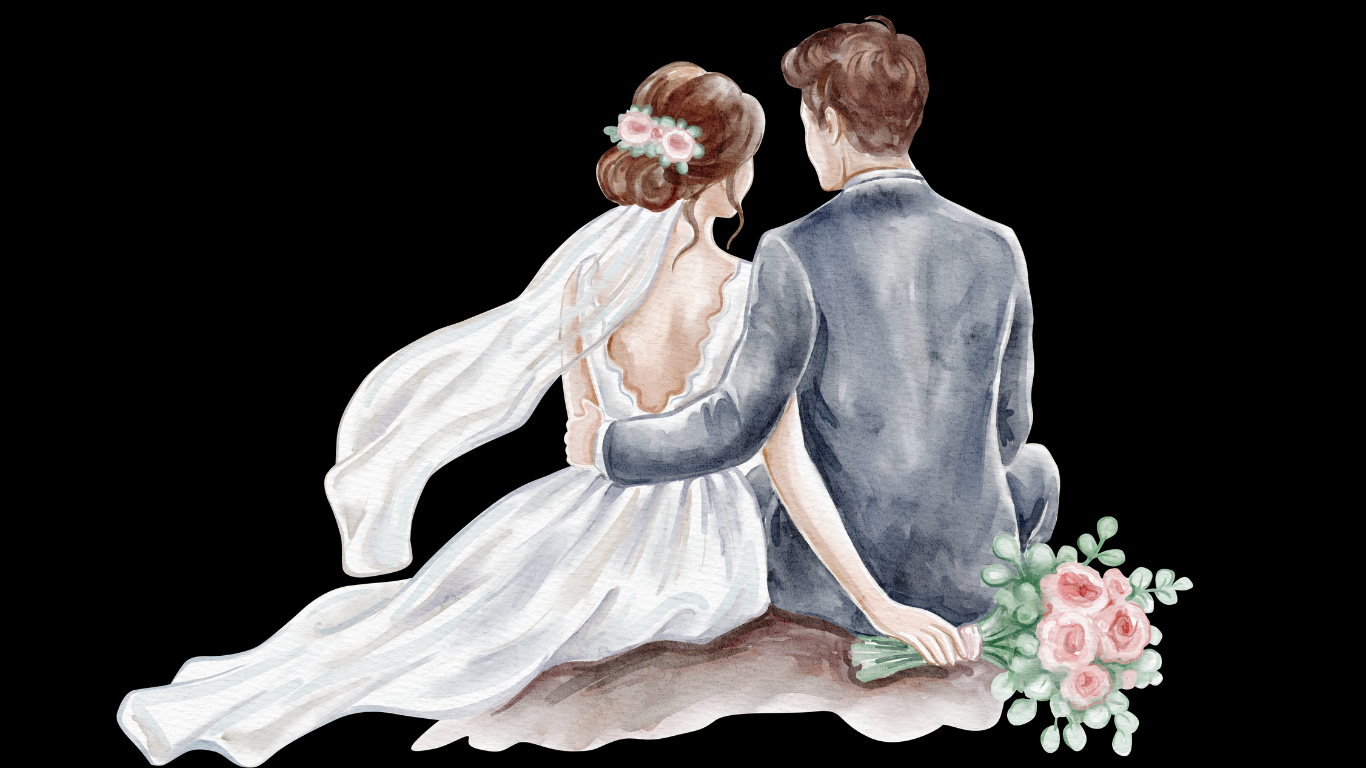
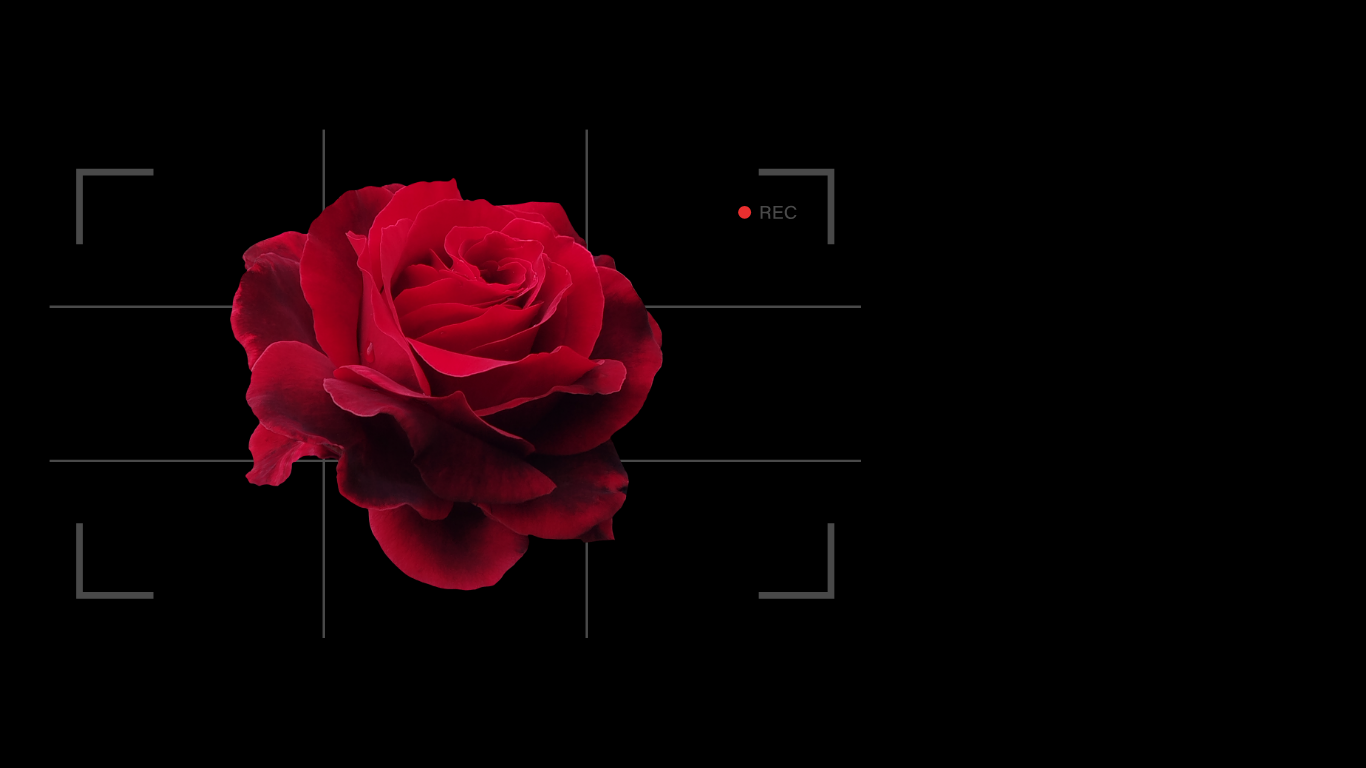
Fix hero text clipping and restore distinct rose/bot images
- Rewrite hero as a robust two-column grid (copy + rose) so the headline
  and body text can never be overlapped or clipped by the rose image;
  fluid clamp() title sizing prevents overflow on any width
- Restore distinct public images (rose-hero from the rose source, chat-rings
  from the rings source) after an upload left both filenames identical

diff --git a/components/sections/Hero.tsx b/components/sections/Hero.tsx
@@ -5,13 +5,7 @@ import { motion } from "framer-motion";
 import { useLang } from "@/lib/i18n";
 
 export function Hero({ go }: { go: (i: number) => void }) {
-  const { t, lang } = useLang();
-  const isAr = lang === "ar";
-
-  // Fade the rose into the black on whichever side the text sits.
-  const mask = isAr
-    ? "linear-gradient(270deg, #000 35%, transparent 90%)"
-    : "linear-gradient(90deg, #000 35%, transparent 90%)";
+  const { t } = useLang();
 
   return (
     <section className="snap-panel viewfinder wash-rose flex items-center overflow-hidden">
@@ -19,49 +13,25 @@ export function Hero({ go }: { go: (i: number) => void }) {
       <span className="vf-br" />
 
       {/* REC marker — echoes the dashboard */}
-      <div className="absolute right-10 top-24 z-20 flex items-center gap-2 md:top-28">
+      <div className="absolute end-8 top-24 z-20 flex items-center gap-2 md:top-28">
         <span className="rec-dot h-2.5 w-2.5 rounded-full bg-rose" />
         <span className="text-xs tracking-[0.3em] text-cream/70">{t.hero.rec}</span>
       </div>
 
-      {/* The rose, fading into the dark */}
-      <motion.div
-        initial={{ opacity: 0, scale: 1.08 }}
-        animate={{ opacity: 1, scale: 1 }}
-        transition={{ duration: 1.6, ease: [0.22, 1, 0.36, 1] }}
-        className="pointer-events-none absolute inset-y-0 z-0 w-[78%] md:w-[60%]"
-        style={{
-          [isAr ? "left" : "right"]: 0,
-          WebkitMaskImage: mask,
-          maskImage: mask,
-        }}
-      >
-        <div className="float-soft relative h-full w-full">
-          <Image
-            src="/rose-hero.png"
-            alt="A single crimson rose framed in a camera viewfinder"
-            fill
-            priority
-            sizes="(max-width: 768px) 78vw, 60vw"
-            className="object-contain object-center opacity-95"
-          />
-        </div>
-      </motion.div>
-
-
-      {/* Copy */}
-      <div className="relative z-10 mx-auto w-full max-w-7xl px-6 md:px-10">
-        <div className="max-w-xl">
+      {/* Two columns: copy + rose. They never overlap, so text can't be clipped. */}
+      <div className="mx-auto grid w-full max-w-7xl grid-cols-1 items-center gap-6 px-6 pt-24 pb-16 md:grid-cols-2 md:gap-10 md:px-10 md:pt-0 md:pb-0">
+        {/* Copy */}
+        <div className="order-2 max-w-xl md:order-1">
           <motion.p
             initial={{ opacity: 0, y: 16 }}
             animate={{ opacity: 1, y: 0 }}
             transition={{ duration: 0.7, delay: 0.2 }}
-            className="eyebrow mb-6"
+            className="eyebrow mb-5"
           >
             {t.hero.kicker}
           </motion.p>
 
-          <h1 className="font-display text-6xl font-light leading-[0.95] sm:text-7xl md:text-8xl">
+          <h1 className="font-display font-light leading-[0.98] text-[clamp(2.75rem,8vw,5.5rem)]">
             <motion.span
               initial={{ opacity: 0, y: 24 }}
               animate={{ opacity: 1, y: 0 }}
@@ -74,7 +44,7 @@ export function Hero({ go }: { go: (i: number) => void }) {
               initial={{ opacity: 0, y: 24 }}
               animate={{ opacity: 1, y: 0 }}
               transition={{ duration: 0.9, delay: 0.46, ease: [0.22, 1, 0.36, 1] }}
-              className="block italic text-gradient-rose"
+              className="block italic text-gradient-rose pb-2"
             >
               {t.hero.titleB}
             </motion.span>
@@ -84,7 +54,7 @@ export function Hero({ go }: { go: (i: number) => void }) {
             initial={{ opacity: 0, y: 18 }}
             animate={{ opacity: 1, y: 0 }}
             transition={{ duration: 0.8, delay: 0.6 }}
-            className="mt-7 max-w-md text-base leading-relaxed text-mute md:text-lg"
+            className="mt-6 max-w-md text-base leading-relaxed text-mute md:text-lg"
           >
             {t.hero.sub}
           </motion.p>
@@ -93,7 +63,7 @@ export function Hero({ go }: { go: (i: number) => void }) {
             initial={{ opacity: 0, y: 18 }}
             animate={{ opacity: 1, y: 0 }}
             transition={{ duration: 0.8, delay: 0.74 }}
-            className="mt-10 flex flex-wrap items-center gap-4"
+            className="mt-9 flex flex-wrap items-center gap-4"
           >
             <button
               onClick={() => go(5)}
@@ -106,12 +76,33 @@ export function Hero({ go }: { go: (i: number) => void }) {
               className="group flex items-center gap-2 rounded-full border border-gold/30 px-7 py-3.5 text-sm font-medium tracking-wide text-cream transition-colors hover:border-gold/70"
             >
               {t.hero.ctaSecondary}
-              <span className="transition-transform group-hover:translate-x-1 rtl:group-hover:-translate-x-1">
+              <span className="transition-transform group-hover:translate-x-1 rtl:rotate-180 rtl:group-hover:-translate-x-1">
                 →
               </span>
             </button>
           </motion.div>
         </div>
+
+        {/* Rose */}
+        <motion.div
+          initial={{ opacity: 0, scale: 1.06 }}
+          animate={{ opacity: 1, scale: 1 }}
+          transition={{ duration: 1.4, ease: [0.22, 1, 0.36, 1] }}
+          className="relative order-1 h-[30vh] w-full sm:h-[36vh] md:order-2 md:h-[68vh]"
+        >
+          {/* soft glow behind the bloom */}
+          <div className="absolute inset-0 bg-[radial-gradient(circle_at_50%_45%,rgba(225,29,54,0.25),transparent_62%)]" />
+          <div className="float-soft relative h-full w-full">
+            <Image
+              src="/rose-hero.png"
+              alt="A single crimson rose framed in a camera viewfinder"
+              fill
+              priority
+              sizes="(max-width: 768px) 90vw, 50vw"
+              className="object-contain object-center"
+            />
+          </div>
+        </motion.div>
       </div>
 
       {/* Scroll hint */}
@@ -120,9 +111,9 @@ export function Hero({ go }: { go: (i: number) => void }) {
         initial={{ opacity: 0 }}
         animate={{ opacity: 1 }}
         transition={{ delay: 1.1 }}
-        className="absolute bottom-8 left-1/2 z-20 flex -translate-x-1/2 flex-col items-center gap-2 text-mute"
+        className="absolute bottom-7 left-1/2 z-20 flex -translate-x-1/2 flex-col items-center gap-2 text-mute"
       >
-        <span className="text-[0.65rem] tracking-[0.3em] uppercase">{t.hero.scroll}</span>
+        <span className="text-[0.65rem] uppercase tracking-[0.3em]">{t.hero.scroll}</span>
         <span className="relative h-9 w-[1.5px] overflow-hidden bg-cream/15">
           <motion.span
             className="absolute inset-x-0 top-0 h-3 bg-gold"